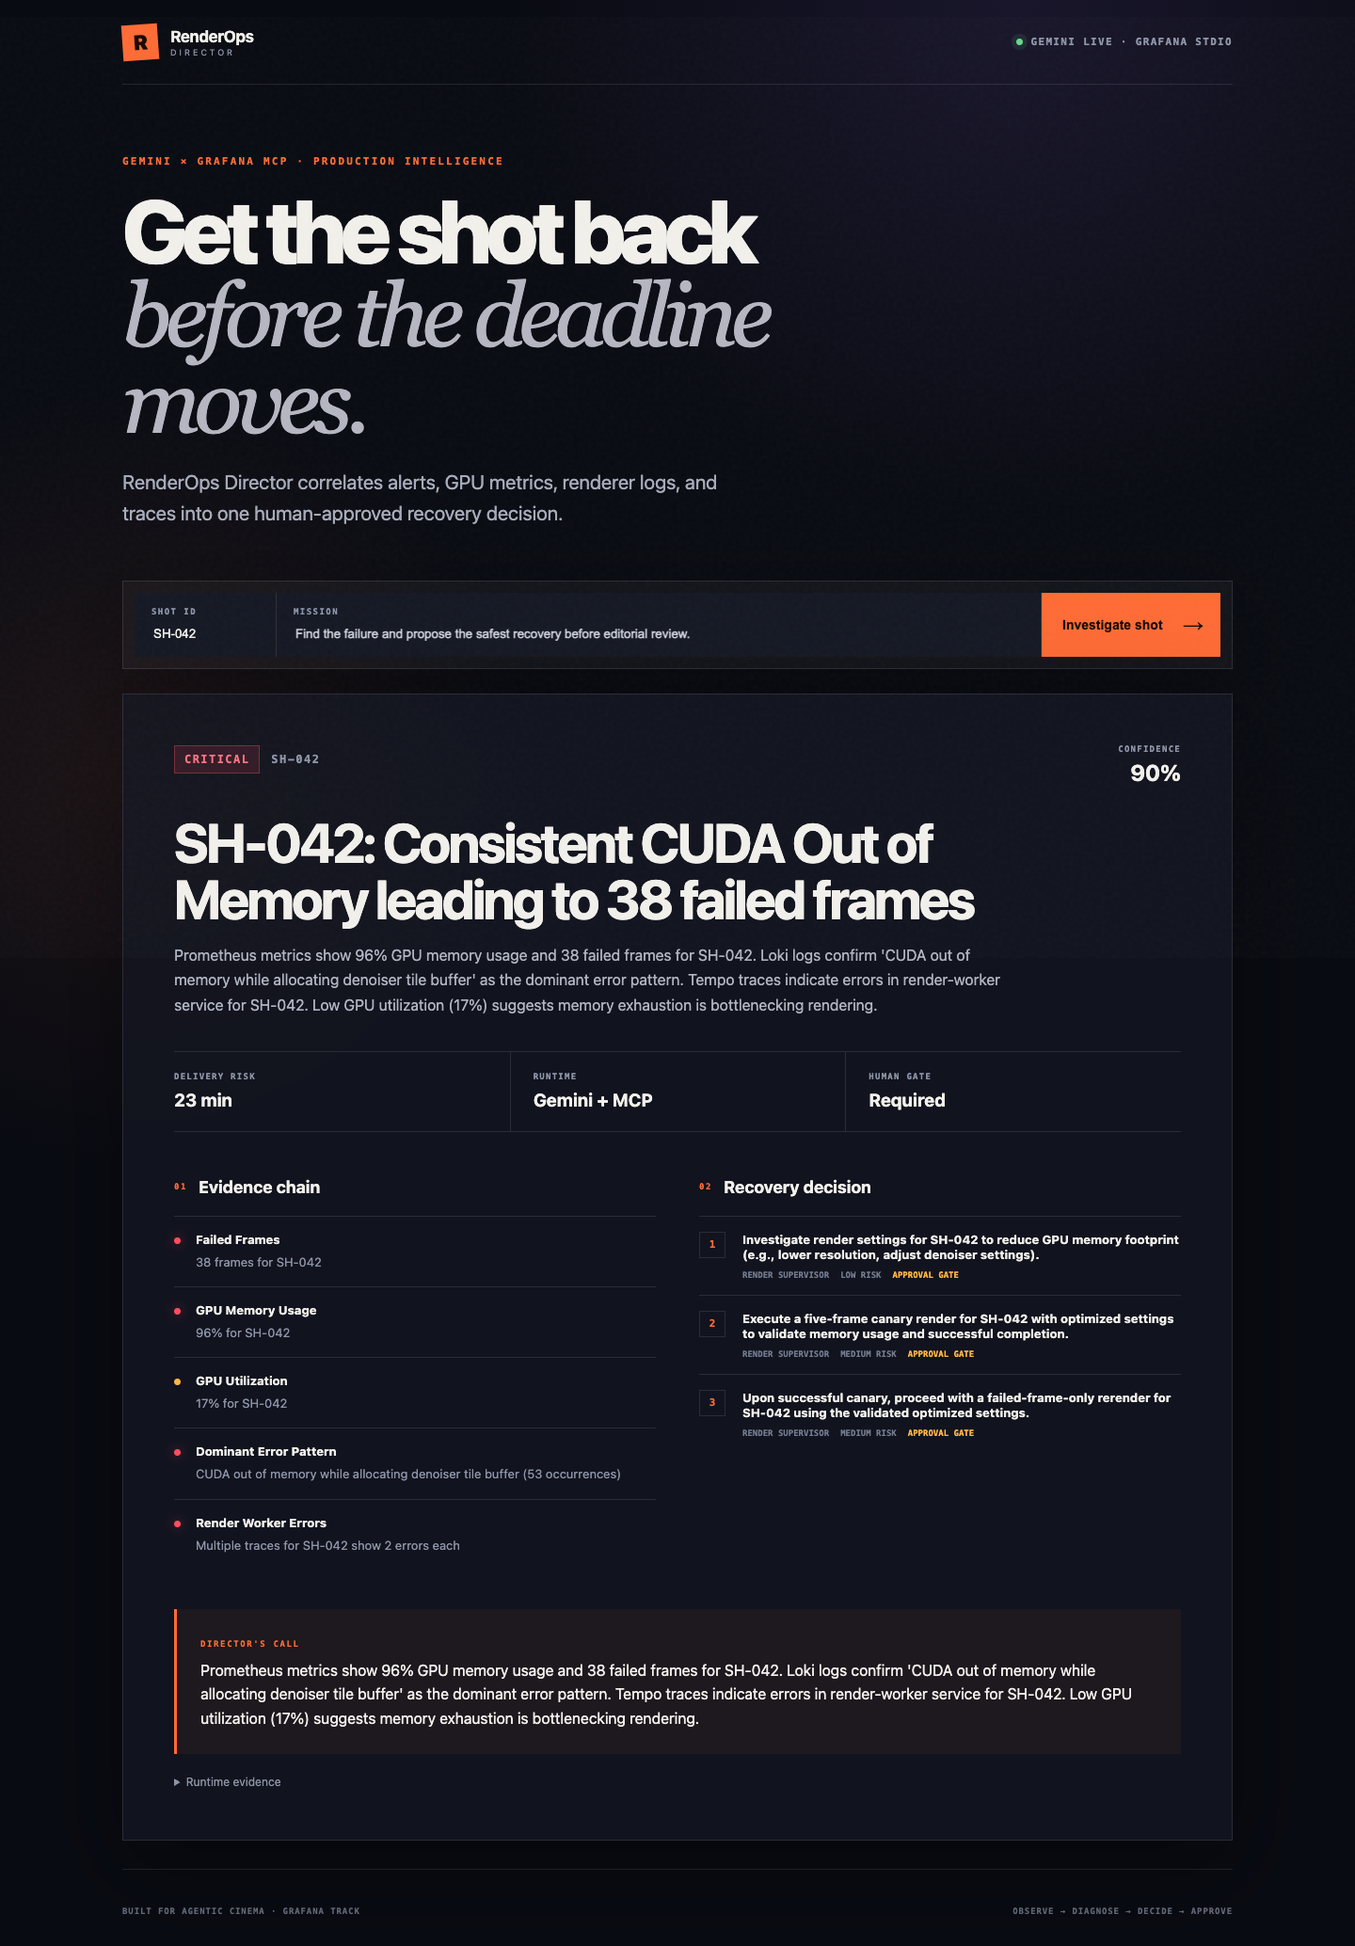
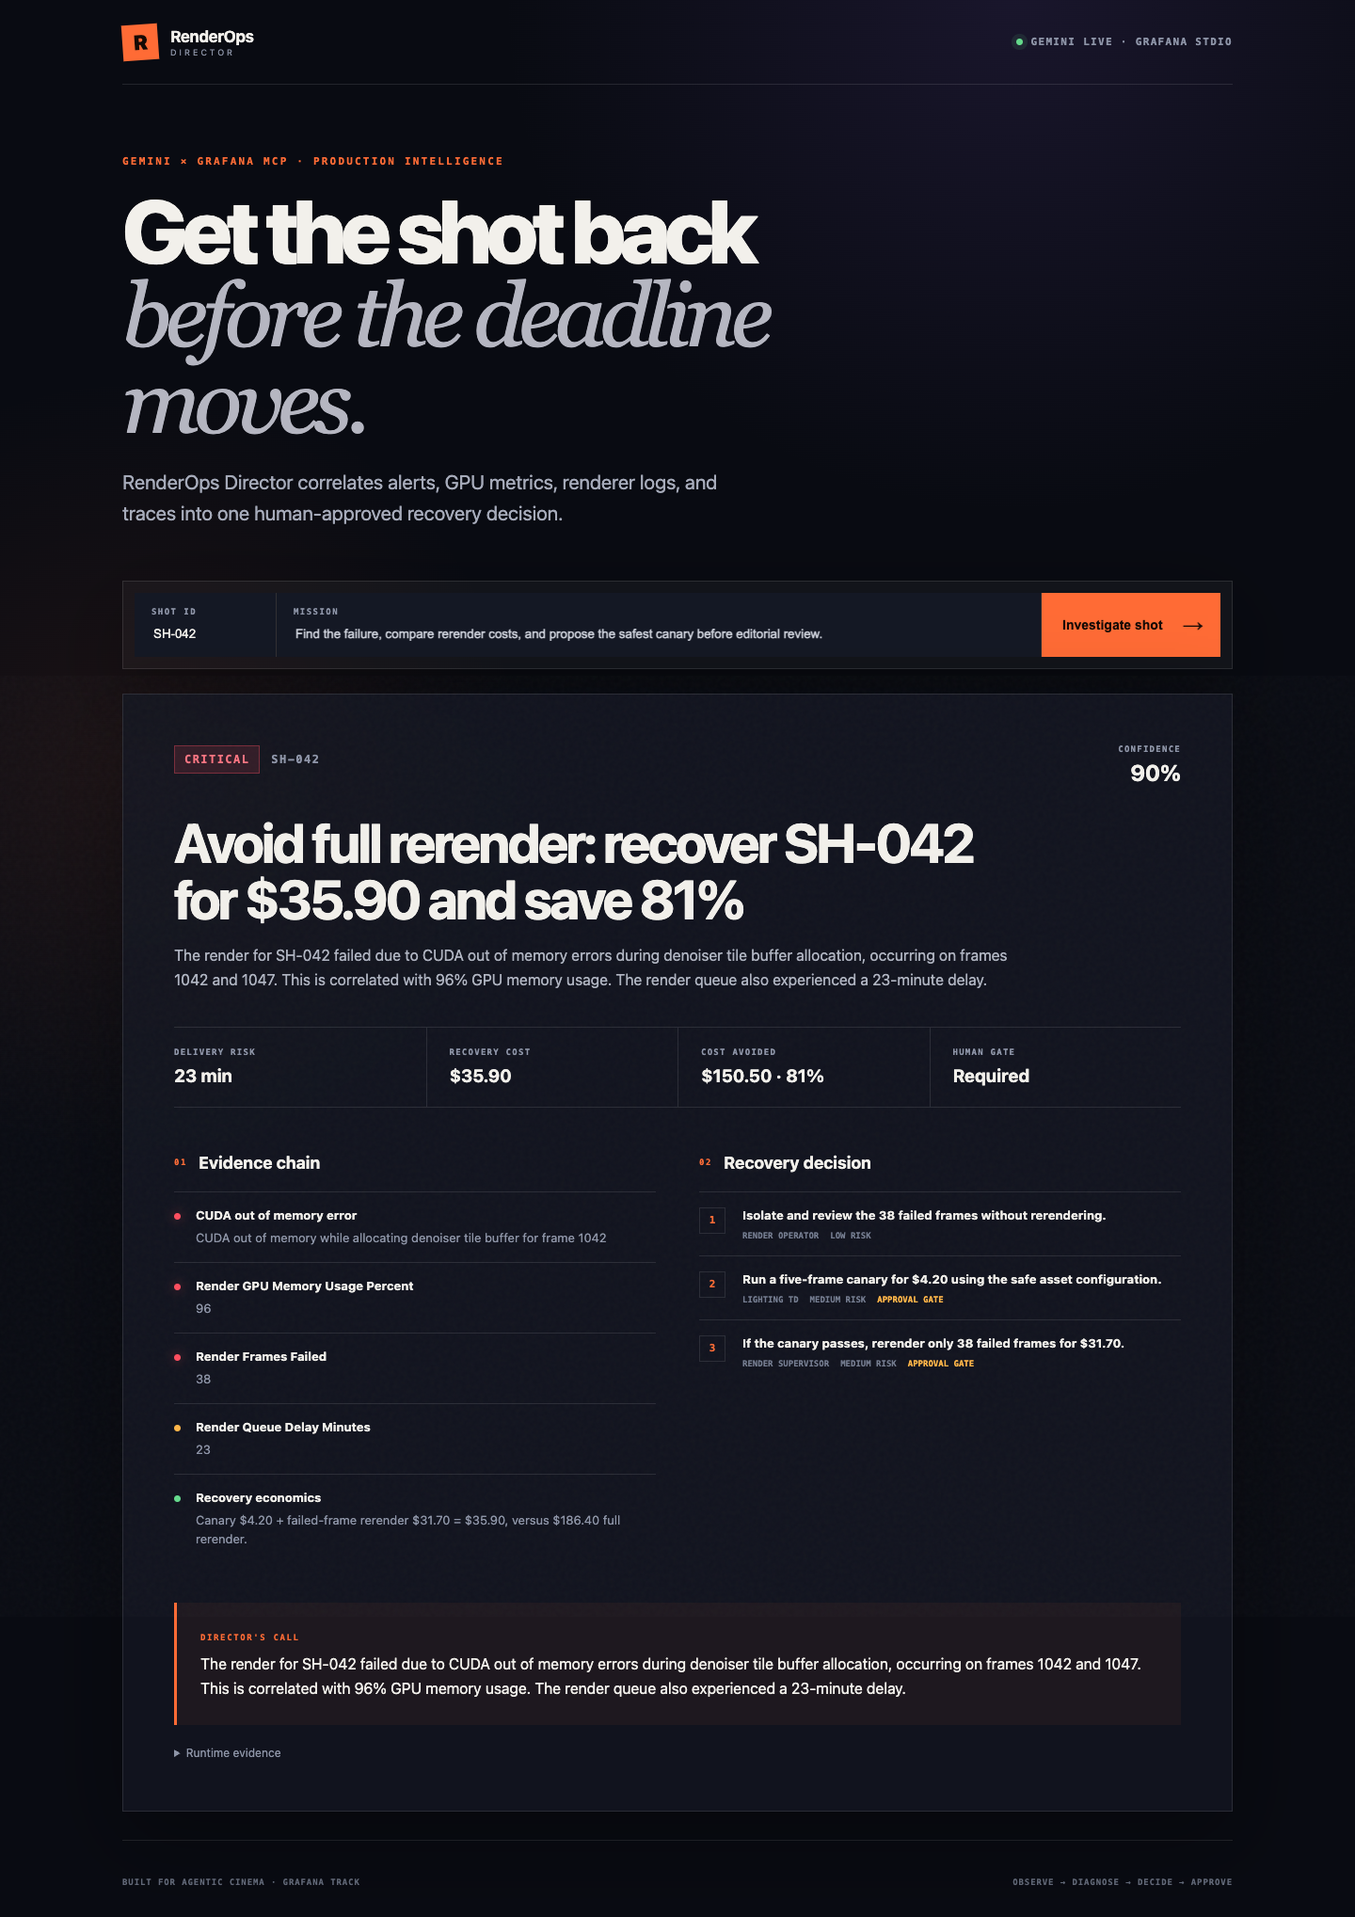
feat(product): quantify the recovery decision

diff --git a/app/static/index.html b/app/static/index.html
@@ -32,7 +32,7 @@
         </label>
         <label class="objective">
           <span>MISSION</span>
-          <input id="objective" name="objective" value="Find the failure and propose the safest recovery before editorial review." minlength="10" maxlength="500" required>
+          <input id="objective" name="objective" value="Find the failure, compare rerender costs, and propose the safest canary before editorial review." minlength="10" maxlength="500" required>
         </label>
         <button id="runButton" type="submit"><span>Investigate shot</span><b>→</b></button>
       </form>
@@ -56,7 +56,8 @@
 
       <div class="metric-strip">
         <div><small>DELIVERY RISK</small><strong id="deliveryRisk">42 min</strong></div>
-        <div><small>RUNTIME</small><strong id="runtimeMode">Demo</strong></div>
+        <div><small>RECOVERY COST</small><strong id="recommendedCost">$35.90</strong></div>
+        <div><small>COST AVOIDED</small><strong id="avoidedCost">$150.50 · 81%</strong></div>
         <div><small>HUMAN GATE</small><strong id="approval">Required</strong></div>
       </div>
 

diff --git a/app/static/app.js b/app/static/app.js
@@ -41,7 +41,11 @@ function renderBrief(data) {
   document.querySelector('#headline').textContent = data.headline;
   document.querySelector('#diagnosis').textContent = data.diagnosis;
   document.querySelector('#deliveryRisk').textContent = `${data.delivery_risk_minutes} min`;
-  document.querySelector('#runtimeMode').textContent = data.runtime === 'demo' ? 'Demo telemetry' : 'Gemini + MCP';
+  document.querySelector('#recommendedCost').textContent = data.recommended_cost_usd > 0
+    ? `$${data.recommended_cost_usd.toFixed(2)}` : 'See evidence';
+  document.querySelector('#avoidedCost').textContent = data.avoided_cost_usd > 0
+    ? `$${data.avoided_cost_usd.toFixed(2)} · ${Math.round(data.avoided_cost_percent)}%`
+    : 'Not calculated';
   document.querySelector('#approval').textContent = data.approval_required ? 'Required' : 'Not required';
   document.querySelector('#narrative').textContent = data.agent_narrative;
 

diff --git a/app/static/styles.css b/app/static/styles.css
@@ -68,7 +68,7 @@ button:disabled { filter: grayscale(.5); cursor: wait; }
 .confidence strong { display: block; margin-top: 6px; font-size: 24px; }
 .result h2 { max-width: 850px; margin: 30px 0 16px; font-size: clamp(32px, 4.6vw, 58px); line-height: 1.04; letter-spacing: -.045em; }
 .diagnosis { max-width: 900px; color: #afb4c1; line-height: 1.65; font-size: 16px; }
-.metric-strip { display: grid; grid-template-columns: repeat(3, 1fr); margin: 36px 0 48px; border-block: 1px solid var(--line); }
+.metric-strip { display: grid; grid-template-columns: repeat(4, 1fr); margin: 36px 0 48px; border-block: 1px solid var(--line); }
 .metric-strip > div { padding: 22px 0; }
 .metric-strip > div + div { border-left: 1px solid var(--line); padding-left: 24px; }
 .metric-strip small { display: block; color: var(--muted); font: 700 9px/1 ui-monospace, monospace; letter-spacing: .14em; }

diff --git a/app/service.py b/app/service.py
@@ -3,7 +3,6 @@ import json
 import logging
 import os
 import uuid
-from contextlib import suppress
 from typing import Any
 
 from google import genai
@@ -42,6 +41,9 @@ def _fallback_response(
         diagnosis=final_text,
         confidence=0.8,
         delivery_risk_minutes=0,
+        recommended_cost_usd=0,
+        avoided_cost_usd=0,
+        avoided_cost_percent=0,
         evidence=[],
         recovery_plan=[],
         agent_narrative=final_text,
@@ -80,6 +82,95 @@ def _bounded_tool_response(value: Any) -> str:
     return rendered[:6000]
 
 
+def _metric_values(tool_evidence: list[dict[str, str]]) -> dict[str, float]:
+    values: dict[str, float] = {}
+    for item in tool_evidence:
+        if item.get("tool") != "query_prometheus":
+            continue
+        try:
+            payload = json.loads(item.get("response", "{}"))
+        except json.JSONDecodeError:
+            continue
+        for series in payload.get("data", []):
+            metric_name = series.get("metric", {}).get("__name__")
+            raw_value = series.get("value", [None, None])[1]
+            if metric_name and raw_value is not None:
+                try:
+                    values[metric_name] = float(raw_value)
+                except (TypeError, ValueError):
+                    continue
+    return values
+
+
+def _apply_economic_outcome(
+    response: InvestigationResponse,
+    tool_evidence: list[dict[str, str]],
+) -> InvestigationResponse:
+    values = _metric_values(tool_evidence)
+    full = values.get("render_full_rerender_cost_usd_ratio")
+    failed = values.get("render_failed_frames_cost_usd_ratio")
+    canary = values.get("render_canary_cost_usd_ratio")
+    if full is None or failed is None or canary is None or full <= 0:
+        return response
+    recommended = round(failed + canary, 2)
+    avoided = round(full - recommended, 2)
+    avoided_percent = round(avoided / full * 100, 1)
+    failed_frames = round(values.get("render_frames_failed", 0))
+    queue_delay = round(values.get("render_queue_delay_minutes", 0))
+    economics = EvidenceItem(
+        source="metric",
+        title="Recovery economics",
+        value=(
+            f"Canary ${canary:.2f} + failed-frame rerender ${failed:.2f} = "
+            f"${recommended:.2f}, versus ${full:.2f} full rerender."
+        ),
+        signal="healthy",
+    )
+    evidence = [item for item in response.evidence if item.title != economics.title]
+    evidence = [*evidence[:4], economics]
+    recovery_plan = [
+        RecoveryAction(
+            order=1,
+            action=f"Isolate and review the {failed_frames} failed frames without rerendering.",
+            owner="Render operator",
+            risk="low",
+            requires_approval=False,
+        ),
+        RecoveryAction(
+            order=2,
+            action=f"Run a five-frame canary for ${canary:.2f} using the safe asset configuration.",
+            owner="Lighting TD",
+            risk="medium",
+            requires_approval=True,
+        ),
+        RecoveryAction(
+            order=3,
+            action=(
+                f"If the canary passes, rerender only {failed_frames} failed frames "
+                f"for ${failed:.2f}."
+            ),
+            owner="Render supervisor",
+            risk="medium",
+            requires_approval=True,
+        ),
+    ]
+    return response.model_copy(
+        update={
+            "headline": (
+                f"Avoid full rerender: recover {response.shot_id} for "
+                f"${recommended:.2f} and save {avoided_percent:.0f}%"
+            ),
+            "delivery_risk_minutes": queue_delay or response.delivery_risk_minutes,
+            "recommended_cost_usd": recommended,
+            "avoided_cost_usd": avoided,
+            "avoided_cost_percent": avoided_percent,
+            "evidence": evidence,
+            "recovery_plan": recovery_plan,
+            "approval_required": True,
+        }
+    )
+
+
 def _normalize_from_evidence(
     final_text: str,
     shot_id: str,
@@ -101,8 +192,12 @@ Objective: {objective}
 Use ONLY facts present in the MCP function responses below. Do not invent a dashboard, alert,
 metric, log, trace, cost, duration, or cause. When signals conflict, lower confidence and say so.
 Return 3-5 concise evidence items and exactly three ordered recovery actions. The first recovery
-step must be non-mutating analysis or quarantine guidance. Any canary or rerender requires human
-approval. Use delivery risk from evidence when available; otherwise use 0.
+step must isolate or review the failed range without mutation. The second must be a five-frame
+canary requiring approval. The third must rerender only failed frames after the canary passes and
+requires approval. Use delivery risk from evidence when available; otherwise use 0. When full,
+failed-frame-only, and canary cost metrics exist, calculate recommended cost as canary plus
+failed-frame-only cost, avoided cost versus full rerender, and avoided percent. Make the headline
+state the production decision and savings, not just the technical symptom.
 
 Primary agent output, which may be incomplete:
 {final_text[:6000]}
@@ -174,6 +269,9 @@ def _collector_fallback_response(
         ),
         confidence=0.55,
         delivery_risk_minutes=0,
+        recommended_cost_usd=0,
+        avoided_cost_usd=0,
+        avoided_cost_percent=0,
         evidence=evidence[:3],
         recovery_plan=[
             RecoveryAction(
@@ -265,12 +363,6 @@ async def investigate(shot_id: str, objective: str) -> InvestigationResponse:
         LOGGER.exception(final_text)
 
     first_pass = _structured_response(final_text, shot_id, tools_used)
-    if first_pass.evidence and first_pass.recovery_plan:
-        collector_task.cancel()
-        with suppress(asyncio.CancelledError, Exception):
-            await collector_task
-        return first_pass
-
     try:
         collector_tools, collector_evidence = await asyncio.wait_for(
             collector_task,
@@ -282,10 +374,15 @@ async def investigate(shot_id: str, objective: str) -> InvestigationResponse:
     except Exception:
         LOGGER.exception("Direct MCP evidence collector failed")
 
+    if first_pass.evidence and first_pass.recovery_plan:
+        first_pass = first_pass.model_copy(
+            update={"tools_used": list(dict.fromkeys(tools_used))}
+        )
+        return _apply_economic_outcome(first_pass, tool_evidence)
     if not tool_evidence:
         return first_pass
     try:
-        return await asyncio.to_thread(
+        normalized = await asyncio.to_thread(
             _normalize_from_evidence,
             final_text,
             shot_id,
@@ -293,6 +390,8 @@ async def investigate(shot_id: str, objective: str) -> InvestigationResponse:
             tools_used,
             tool_evidence,
         )
+        return _apply_economic_outcome(normalized, tool_evidence)
     except Exception:
         LOGGER.exception("Structured Gemini normalization failed")
-        return _collector_fallback_response(shot_id, tools_used, tool_evidence)
+        fallback = _collector_fallback_response(shot_id, tools_used, tool_evidence)
+        return _apply_economic_outcome(fallback, tool_evidence)

diff --git a/app/agent.py b/app/agent.py
@@ -39,14 +39,20 @@ For every investigation:
 1. Inspect active/firing alerts and identify the render service or shot.
 2. Query Prometheus metrics matching the requested shot. Look for render_frames_failed,
    render_gpu_memory_usage_percent, render_gpu_utilization_percent,
-   render_queue_delay_minutes, render_frame_duration_seconds, and
-   render_full_rerender_cost_usd.
+   render_queue_delay_minutes, render_frame_duration_seconds,
+   render_full_rerender_cost_usd, render_failed_frames_cost_usd, and
+   render_canary_cost_usd.
 3. Query Loki logs for the shot ID and the dominant renderer error pattern. Use the available
    Loki label discovery tools when needed; never guess a label name.
 4. Query Tempo with TraceQL for spans whose shot.id attribute matches the shot ID.
 5. Find a relevant dashboard and generate a human-review link when available.
 6. Correlate the evidence before assigning a root cause. Clearly distinguish facts from inference.
-7. Compare a full rerender, failed-frame-only rerender, and a five-frame canary.
+7. Compare a full rerender, failed-frame-only rerender, and a five-frame canary. If all
+   three cost metrics exist, calculate recommended_cost_usd as canary plus failed-frame-only cost,
+   avoided_cost_usd versus a full rerender, and avoided_cost_percent.
+8. The recovery plan must be: isolate the failed range; run a five-frame canary with approval;
+   if it passes, rerender only failed frames with approval. Do not recommend a full rerender when
+   the evidence supports the bounded path.
 
 Your final response MUST be one compact JSON object with no Markdown fence or surrounding prose.
 Use at most five evidence entries and exactly three recovery actions. Keep headline under 100
@@ -57,6 +63,9 @@ characters, diagnosis under 500 characters, and every title/value/action under 1
   "diagnosis": "evidence-backed root cause",
   "confidence": 0.0,
   "delivery_risk_minutes": 0,
+  "recommended_cost_usd": 0.0,
+  "avoided_cost_usd": 0.0,
+  "avoided_cost_percent": 0.0,
   "evidence": [
     {"source": "alert|metric|log|trace|dashboard", "title": "...", "value": "...",
      "signal": "critical|warning|healthy|context"}

diff --git a/app/mcp_collector.py b/app/mcp_collector.py
@@ -31,21 +31,27 @@ async def collect_grafana_evidence(shot_id: str) -> tuple[list[str], list[dict[s
     loki_uid = os.environ.get("GRAFANA_LOKI_UID", "grafanacloud-logs")
     tempo_uid = os.environ.get("GRAFANA_TEMPO_UID", "grafanacloud-traces")
     normalized = shot_id.strip().upper()
-    calls = (
+    metric_queries = (
+        "render_frames_failed",
+        "render_gpu_memory_usage_percent",
+        "render_gpu_utilization_percent",
+        "render_queue_delay_minutes",
+        "render_full_rerender_cost_usd_ratio",
+        "render_failed_frames_cost_usd_ratio",
+        "render_canary_cost_usd_ratio",
+    )
+    calls = tuple(
         (
             "query_prometheus",
             {
                 "datasourceUid": prometheus_uid,
-                "expr": (
-                    "render_frames_failed or render_gpu_memory_usage_percent or "
-                    "render_gpu_utilization_percent or render_queue_delay_minutes or "
-                    "render_full_rerender_cost_usd or render_failed_frames_cost_usd or "
-                    "render_canary_cost_usd"
-                ),
+                "expr": expression,
                 "queryType": "instant",
                 "endTime": "now",
             },
-        ),
+        )
+        for expression in metric_queries
+    ) + (
         (
             "query_loki_logs",
             {

diff --git a/app/models.py b/app/models.py
@@ -6,7 +6,7 @@ from pydantic import BaseModel, Field
 class InvestigationRequest(BaseModel):
     shot_id: str = Field(default="SH-042", min_length=2, max_length=64)
     objective: str = Field(
-        default="Find the render failure, estimate delivery risk, and propose the safest recovery.",
+        default="Find the failure, compare rerender costs, and propose the safest canary.",
         min_length=10,
         max_length=500,
     )
@@ -33,6 +33,9 @@ class IncidentPayload(BaseModel):
     diagnosis: str
     confidence: float = Field(ge=0, le=1)
     delivery_risk_minutes: int = Field(ge=0)
+    recommended_cost_usd: float = Field(ge=0)
+    avoided_cost_usd: float = Field(ge=0)
+    avoided_cost_percent: float = Field(ge=0, le=100)
     evidence: list[EvidenceItem]
     recovery_plan: list[RecoveryAction]
     approval_required: bool
@@ -46,6 +49,9 @@ class InvestigationResponse(BaseModel):
     diagnosis: str
     confidence: float = Field(ge=0, le=1)
     delivery_risk_minutes: int = Field(ge=0)
+    recommended_cost_usd: float = Field(ge=0)
+    avoided_cost_usd: float = Field(ge=0)
+    avoided_cost_percent: float = Field(ge=0, le=100)
     evidence: list[EvidenceItem]
     recovery_plan: list[RecoveryAction]
     agent_narrative: str

diff --git a/app/demo.py b/app/demo.py
@@ -15,6 +15,9 @@ def demo_telemetry(shot_id: str) -> dict:
         "trace_bottleneck": "denoise.final-pass (p99 92.4s, 8 retries)",
         "dashboard": "Render Farm / Sequence 12 / Night Exterior",
         "queue_delay_minutes": 23,
+        "full_rerender_cost_usd": 186.4,
+        "failed_frames_cost_usd": 31.7,
+        "canary_cost_usd": 4.2,
     }
 
 
@@ -96,6 +99,17 @@ def build_demo_brief(shot_id: str) -> InvestigationResponse:
         ),
         confidence=0.93,
         delivery_risk_minutes=data["queue_delay_minutes"] + 19,
+        recommended_cost_usd=round(
+            data["failed_frames_cost_usd"] + data["canary_cost_usd"],
+            2,
+        ),
+        avoided_cost_usd=round(
+            data["full_rerender_cost_usd"]
+            - data["failed_frames_cost_usd"]
+            - data["canary_cost_usd"],
+            2,
+        ),
+        avoided_cost_percent=80.7,
         evidence=evidence,
         recovery_plan=recovery,
         agent_narrative=(

diff --git a/tests/test_service.py b/tests/test_service.py
@@ -11,6 +11,9 @@ def test_structured_response_parses_agent_json() -> None:
       "diagnosis": "GPU memory saturation caused denoiser failures.",
       "confidence": 0.94,
       "delivery_risk_minutes": 42,
+      "recommended_cost_usd": 35.9,
+      "avoided_cost_usd": 150.5,
+      "avoided_cost_percent": 80.7,
       "evidence": [
         {"source": "metric", "title": "Failed frames", "value": "38", "signal": "critical"}
       ],
@@ -49,6 +52,9 @@ def test_normalizer_builds_structured_live_response() -> None:
         "diagnosis": "MCP evidence shows GPU memory saturation.",
         "confidence": 0.95,
         "delivery_risk_minutes": 42,
+        "recommended_cost_usd": 35.9,
+        "avoided_cost_usd": 150.5,
+        "avoided_cost_percent": 80.7,
         "evidence": [
             {
                 "source": "metric",

diff --git a/tests/test_app.py b/tests/test_app.py
@@ -35,3 +35,6 @@ def test_demo_investigation() -> None:
     assert body["runtime"] == "demo"
     assert body["approval_required"] is True
     assert body["delivery_risk_minutes"] > 0
+    assert body["recommended_cost_usd"] == 35.9
+    assert body["avoided_cost_usd"] == 150.5
+    assert body["avoided_cost_percent"] == 80.7

diff --git a/app/__init__.py b/app/__init__.py
@@ -1,3 +1,3 @@
 """RenderOps Director application package."""
 
-__version__ = "0.3.1"
+__version__ = "0.4.0"

diff --git a/README.md b/README.md
@@ -3,6 +3,8 @@
 **A Gemini production coordinator that turns failed cinematic frames into the safest, fastest, and most cost-effective recovery decision.**
 
 RenderOps Director is a new submission for the **Agentic Cinema — Grafana track**. It uses Google Agent Development Kit (ADK), Gemini on Vertex AI, and the official Grafana MCP runtime to correlate render-farm alerts, GPU metrics, Loki logs, Tempo traces, and dashboard context. The result is not another alert: it is an evidence-backed, human-approved canary rerender plan.
+For the public SH-042 scenario, the recommended path costs $35.90 instead of a $186.40 full
+rerender, avoiding $150.50 (about 81%) while protecting the editorial deadline.
 
 **Live demo:** <https://renderops-director-w6mw3t2ita-uc.a.run.app>
 
